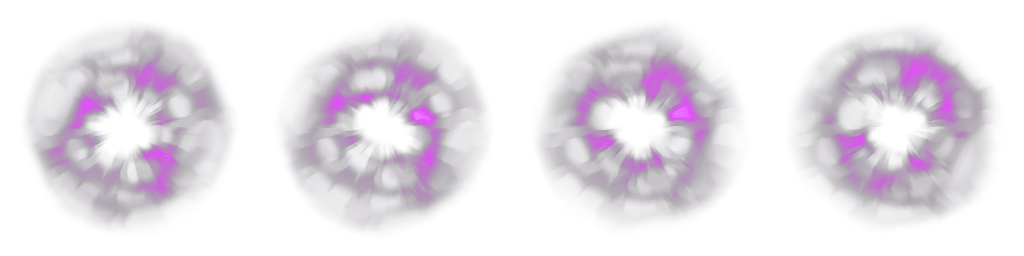
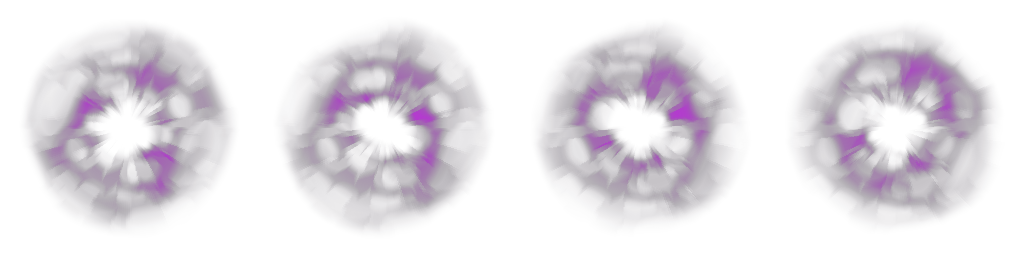
Tune form VFX against patch footage

diff --git a/scripts/extract-character-form-vfx.py b/scripts/extract-character-form-vfx.py
@@ -235,7 +235,7 @@ def animated_noise_sheet(noise: Image.Image, slug: str) -> Image.Image:
             (
                 ((0, (0, 0.079, 0.045)), (0.622, (0, 0.412, 0.191)), (1, (0, 1, 0.293)))
                 if serpent
-                else ((0.306, (0.048, 0, 0.072)), (0.703, (0.866, 0, 1)), (1, (1, 1, 1)))
+                else ((0.306, (0.048, 0, 0.072)), (0.703, (0.52, 0, 0.65)), (1, (0.86, 0.12, 1)))
             ),
             lambda u, v: sample_float_gradient(
                 ((0, 0), (0.26216215, 0.75), (1, 0)),
@@ -286,6 +286,15 @@ def compile_scene(
             props["browser_fps"] = 4
         if node["name"] == "vfx_serpent_form_snakes":
             props["offset"] = {"$": "Vector2", "v": [-12.8, -89.6]}
+            props["scale"] = {"$": "Vector2", "v": [0.9, 0.9]}
+        if spec.slug == "serpent" and node["name"] == "snake_container":
+            props["modulate"] = {"$": "Color", "v": [1, 1, 1, 0.55]}
+        if spec.slug == "serpent" and node["name"] == "vfx_serpent_form_idle_glow":
+            props["self_modulate"]["v"][3] = 0.45
+        if spec.slug == "serpent" and node["name"] == "vfx_serpent_form_idle_panning_noise":
+            props["self_modulate"]["v"][3] = 0.25
+        if spec.slug == "reaper" and node["name"] == "vfx_reaper_form_idle_panning_noise":
+            props["scale"] = {"$": "Vector2", "v": [1.75, 1.75]}
 
     used_ext_ids: set[str] = set()
     for node in kept_nodes:
